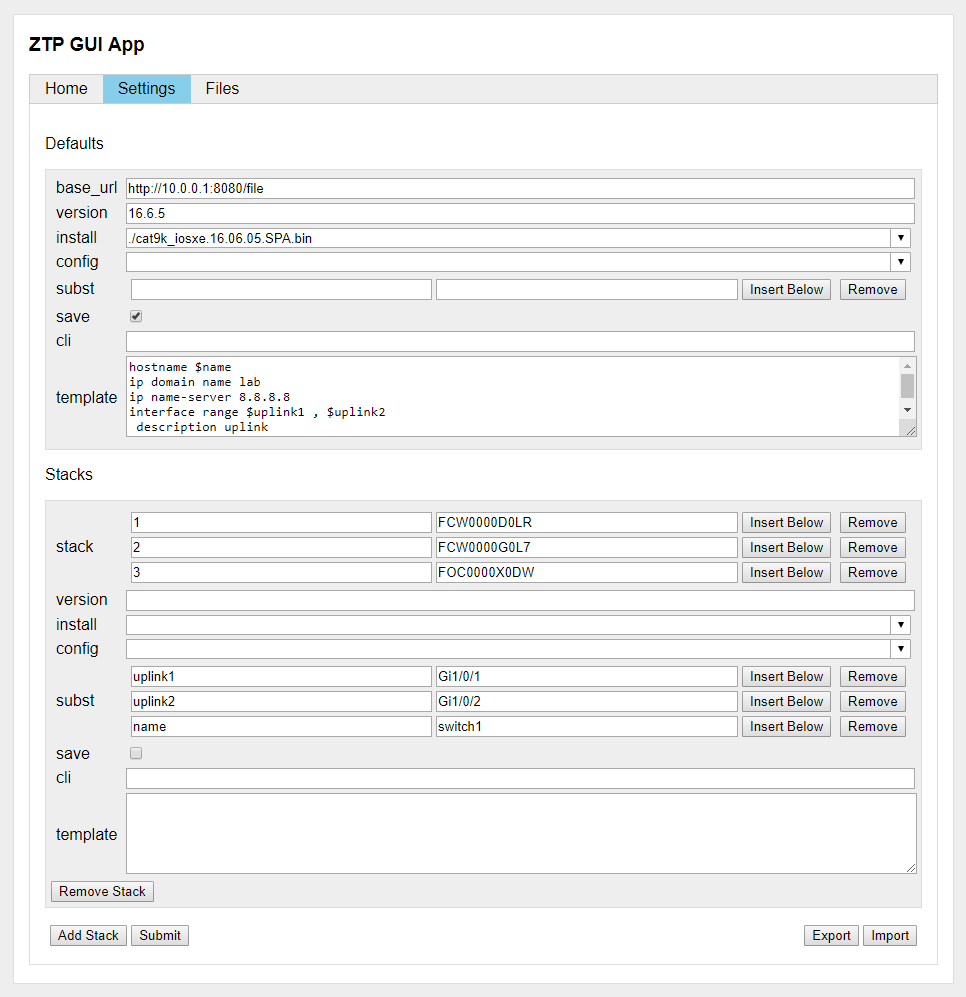
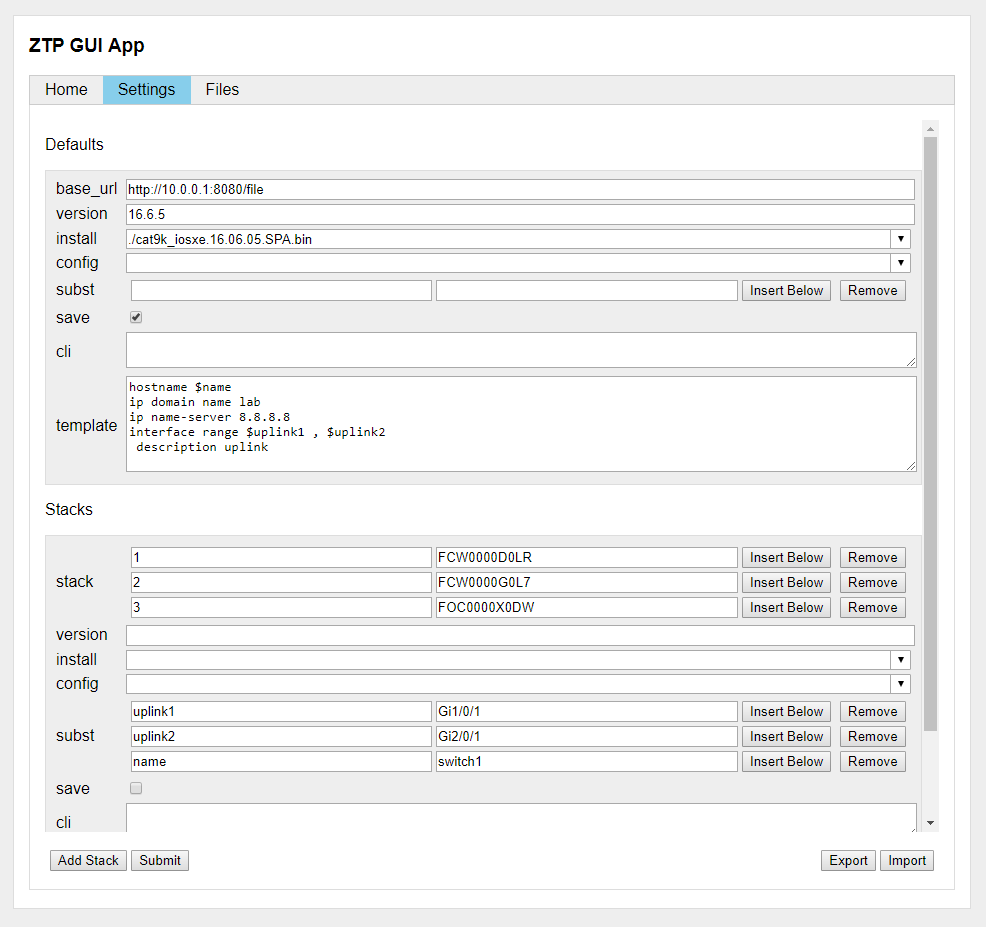
Add files via upload

Changed region(s): [[0.0311, 0.0302, 0.9627, 0.9666], [0.8075, 0.9061, 0.9627, 0.9666], [0.9317, 0.8457, 0.9627, 0.8759]]

diff --git a/main.js b/main.js
@@ -67,10 +67,22 @@ function createTableRow(table, object, key) {
             ele.type = 'checkbox';
             if (object[key]) ele.checked = true;
             break;
+        case 'cli':
         case 'template':
             var ele = document.createElement('TEXTAREA');
-            ele.rows = 5;
-            if (object[key]) ele.innerHTML = object[key];
+            ele.addEventListener('input', function() {
+                // Auto resize text area
+				var breaks = this.value.match(/\n/g);
+                var lines = breaks ? breaks.length + 2 : 2;
+                this.rows = (lines < 10) ? lines : 10;
+            }, false);
+            if (object[key]) {
+                ele.innerHTML = object[key];
+                // Set initial text area height
+				var breaks = object[key].match(/\n/g);
+                var lines = breaks ? breaks.length + 2 : 2;
+                ele.rows = (lines < 10) ? lines : 10;
+            }
             break;
         case 'install':
             var ele = createDropdown(object[key], id, function() {
@@ -486,7 +498,7 @@ function loadLog() {
                     var cell = row.insertCell(-1);
                     ['logbuf', 'cli'].forEach(function(key) {
                         if (typeof entries[index][key] !== 'undefined') {
-                            cell.appendChild(createLink(key, null, openModal(entries[index][key])));
+                            cell.appendChild(createLink(key, null, openModal(key, entries[index][key])));
                             cell.appendChild(document.createTextNode(' '));
                         }
                     });
@@ -531,9 +543,10 @@ function openPage(evt, name) {
     evt.currentTarget.className += " active";
 }
 
-function openModal(txt) {
+function openModal(head, txt) {
     return function() {
         event.preventDefault()
+		document.getElementById('modalhead').innerHTML = head;
         var modalcontent = document.getElementById('modalcontent');
         // Remove all content
         while (modalcontent.firstChild) {

diff --git a/index.html b/index.html
@@ -17,15 +17,17 @@
             <button class="tablinks" onclick="openPage(event, 'filestab')">Files</button>
         </div>
         <div id="hometab" class="tabcontent">
-            <p id="log"></p>
+            <p id="log" style="max-height: calc(100vh - 225px); overflow-y: auto; margin-bottom: 15px;"></p>
             <input type="button" value="Refresh" onclick="loadLog()"/>
             <input type="button" value="Clear" onclick="clearLog()"/>
         </div>
         <div id="settingstab" class="tabcontent">
-            <p>Defaults</p>
-            <div id="defaults" class="box"></div>
-            <p>Stacks</p>
-            <div id="stacks"></div>
+            <div style="max-height: calc(100vh - 215px); overflow-y: auto; margin-bottom: 15px;">
+                <p>Defaults</p>
+                <div id="defaults" class="box"></div>
+                <p>Stacks</p>
+                <div id="stacks"></div>
+            </div>
             <form id="form_import">
                 <table>
                     <tr>
@@ -43,7 +45,7 @@
             </form>
         </div>
         <div id="filestab" class="tabcontent">
-            <p id="files"></p>
+            <p id="files" style="max-height: calc(100vh - 265px); overflow-y: auto; margin-bottom: 15px;"></p>
             <form id="form_upload" class="box">
                 <table>
                     <tr class="center">
@@ -68,6 +70,7 @@
         <div id="modal">
             <div class="content">
                 <span class="close" onclick="document.getElementById('modal').style.display = 'none'">&times;</span>
+                <p id="modalhead"></p>
                 <div id="modalcontent" class="scrollable"></div>
             </div>
         </div>

diff --git a/style.css b/style.css
@@ -19,6 +19,10 @@ body {
 table, input[type=text], input[type=file], textarea {
     width: 100%;
 }
+textarea {
+    white-space: nowrap;
+    resize: vertical;
+}
 td {
     padding: 1px 3px;
 }
@@ -81,7 +85,7 @@ span {
     border: 1px solid #777;
 }
 #modal .scrollable {
-    max-height: calc(100% - 100px);
+    max-height: calc(100% - 46px);
     overflow-y: auto;
 }
 #modal .close {
@@ -94,6 +98,10 @@ span {
     color: #000;
     text-decoration: none;
     cursor: pointer;
+}
+pre {
+    white-space: pre-wrap;
+    word-break: break-all;
 }
 #log table, #files table {
     border-collapse: collapse;

diff --git a/script.py b/script.py
@@ -47,7 +47,7 @@ JSON = 'http://10.0.0.1:8080/data'
 # 'install' : string with URL of target IOS to download
 # 'config'  : string with URL of configuration template to download
 # 'subst'   : dict with keys that match the placeholders in the template
-# 'cli'     : string of finishing commands separated by space and semicolon
+# 'cli'     : string of final IOS commands, or Python if the line starts with %
 # 'save'    : boolean to indicate to save configuration at script completion
 # 'template': string holding configuration template with $-based placeholders
 DATA = []
@@ -192,7 +192,7 @@ def renumber_stack(stack, serials):
             # calculate new switch priority
             new_prio = 16 - int(new_num)
             # lookup current switch priority
-            old_prio = next((p for n, p in match if int(n) == old_num), None)
+            old_prio = next((p for n, p in match if int(n) == old_num), 1)
             if int(old_prio) != new_prio:
                 # check if top switch is not active
                 if switch.find('*{}'.format(sorted(serials.keys())[0])) == -1:
@@ -336,18 +336,31 @@ def blue_beacon(sw_nums):
         except cli.CLISyntaxError:
             pass
 
+        log(6, 'Switch %d beacon LED turned on' % num)
+
 def final_cli(command):
     """ Returns True if given command string is executed succesfully """
     success = False
     if command is not None:
         success = True
-        for cmd in command.split(';'):
-            try:
-                ztp['cli'] = ztp.get('cli', '') + '{:-^60}'.format(cmd)
-                ztp['cli'] += cli.execute(cmd)
-            except cli.CLISyntaxError as e:
-                log(3, e)
-                success = False
+        for cmd in command.splitlines():
+            # check if command line starts with %
+            match = re.match('\s*%\s*(.*)', cmd)
+            if match:
+                try:
+                    exec(match.group(1))
+                except Exception as e:
+                    log(3, 'Final command failure: %s' % e)
+                    success = False
+            else:
+                try:
+                    output = cli.execute(cmd)
+                except cli.CLISyntaxError as e:
+                    log(3, 'Final command failure: %s' % e)
+                    success = False
+                else:
+                    fmt = '{}{:-^60.54}\n\n{}\n\n'
+                    ztp['cli'] = fmt.format(ztp.get('cli', ''), cmd, output)
 
     return success
 
@@ -378,9 +391,9 @@ def main():
     if target.stack is None:
         log(4, '% Stack not found in dataset')
         blue_beacon(serials.keys())
-        ztp['serial'] = next(iter(serials.values()))
+        ztp['serial'] = serials[sorted(serials.keys())[0]]
     else:
-        ztp['serial'] = next(iter(target.stack.values()))
+        ztp['serial'] = target.stack[sorted(target.stack.keys())[0]]
         # check if all specified switches are found, turn on beacon if not
         missing = set(target.stack.values()) - set(serials.values())
         if len(missing):
@@ -393,7 +406,7 @@ def main():
             log(4, 'Extra switch(es): %s' % ', '.join(extra))
             blue_beacon(serials.keys())
 
-    is_chassis = 0 in serials
+    is_chassis = bool(0 in serials)
     # first, check version and install software if needed
     if install(target, is_chassis):
         log(6, 'Software upgrade starting asynchronously...')

diff --git a/app.py b/app.py
@@ -7,7 +7,7 @@ script validates the format of the data for every API call. Error messages of
 failed API calls are presented in the GUI.
 
 Author:  Tim Dorssers
-Version: 1.0
+Version: 1.1
 """
 
 import io

diff --git a/README.md b/README.md
@@ -44,7 +44,7 @@ By default, the Guest Shell has access to the network via the RP management port
   *install* | string with URL of target IOS to download
   *config* | string with URL of configuration template to download
   *subst* | dict with keys that match the placeholders in the template
-  *cli* | string of finishing commands separated by space and semicolon
+  *cli* | string of final IOS commands, or Python if line starts with %
   *save* | boolean to indicate to save configuration at script completion
   *template* | string holding configuration template with $-based placeholders
 
@@ -129,7 +129,11 @@ ip dhcp pool ztp_pool
  option 67 ascii http://10.0.0.1:8080/file/script.py
 ```
 
-Install [Bottle](https://pypi.org/project/bottle/) and [Waitress](https://pypi.org/project/waitress/) using [PIP](https://pypi.org/project/pip/) or on Ubuntu as follows:
+Install [Bottle](https://pypi.org/project/bottle/) and [Waitress](https://pypi.org/project/waitress/) using [PIP](https://pypi.org/project/pip/):
+
+`pip install bottle waitress`
+
+or on Ubuntu as follows:
 
 `sudo apt-get install python-bottle python-waitress`
 
@@ -137,7 +141,7 @@ Put *app.py*, *index.html*, *main.js*, *style.css* and *script.py* in a director
 
 `nohup python app.py &`
 
-The app can be run on Windows as well. Python 2.7 and 3 are supported.
+The app can be run on Windows as well. Python 2.7+ and 3.4+ are supported.
 
 ## Testing
 
